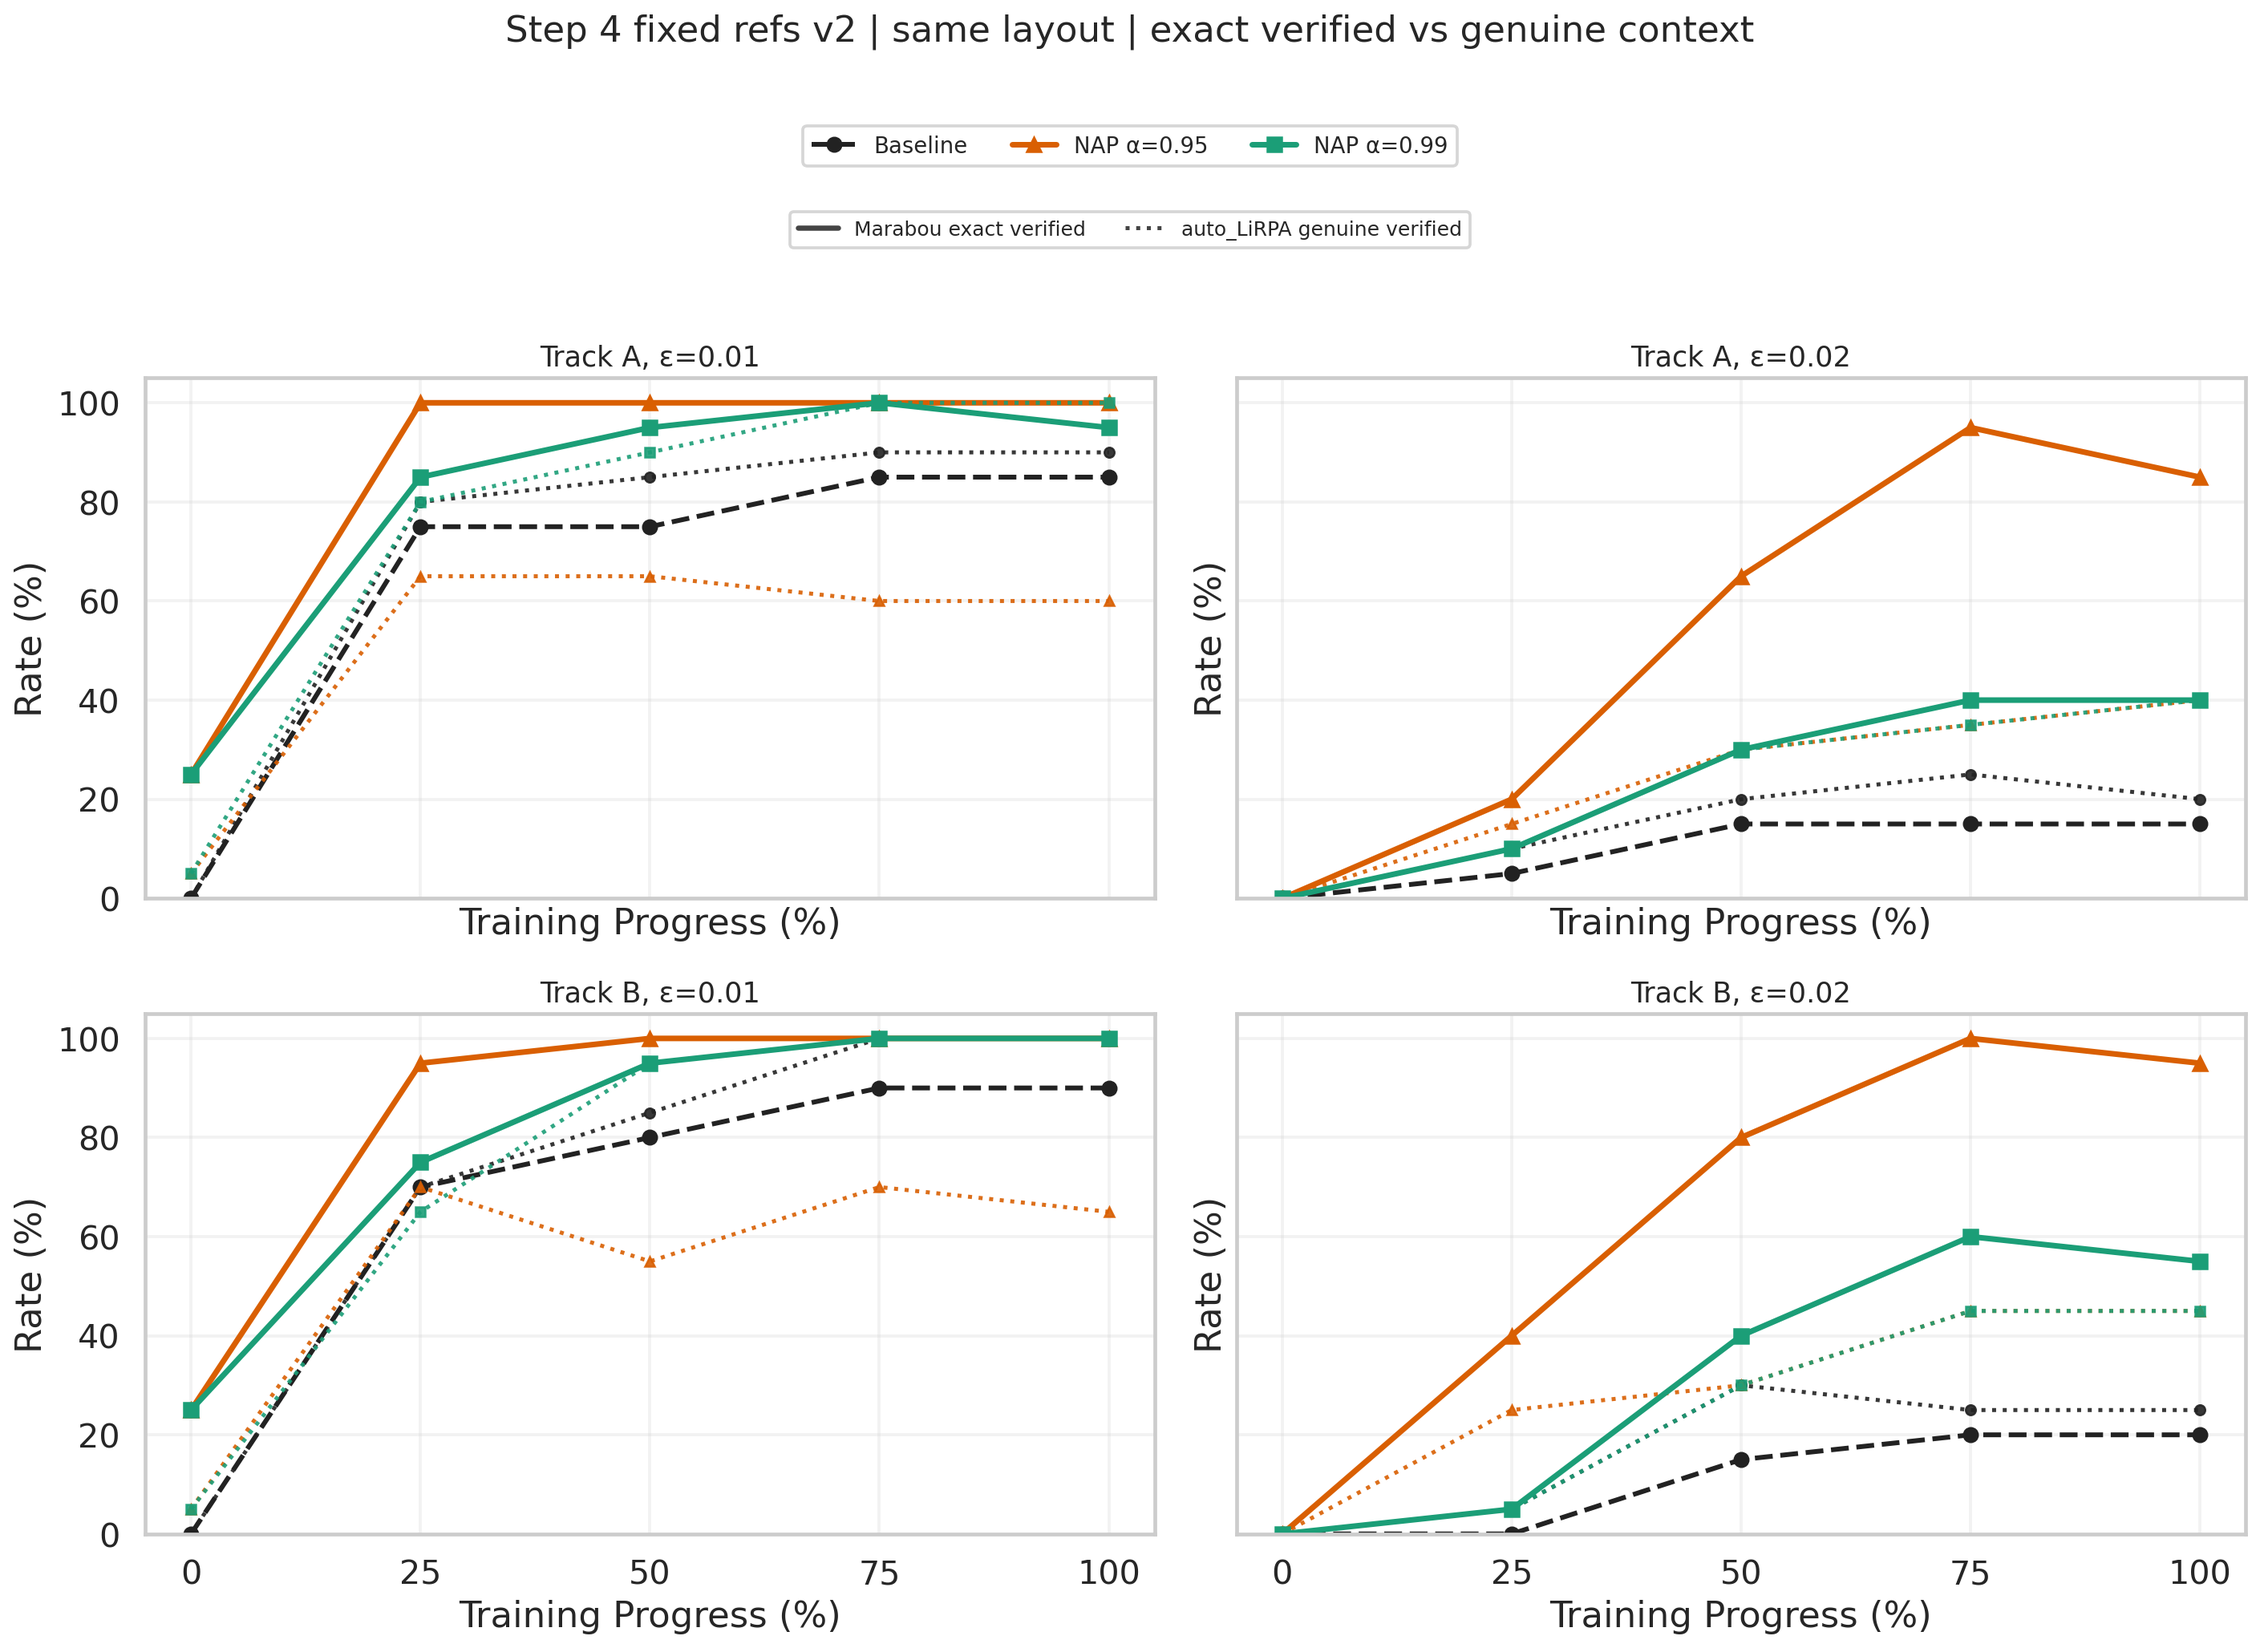
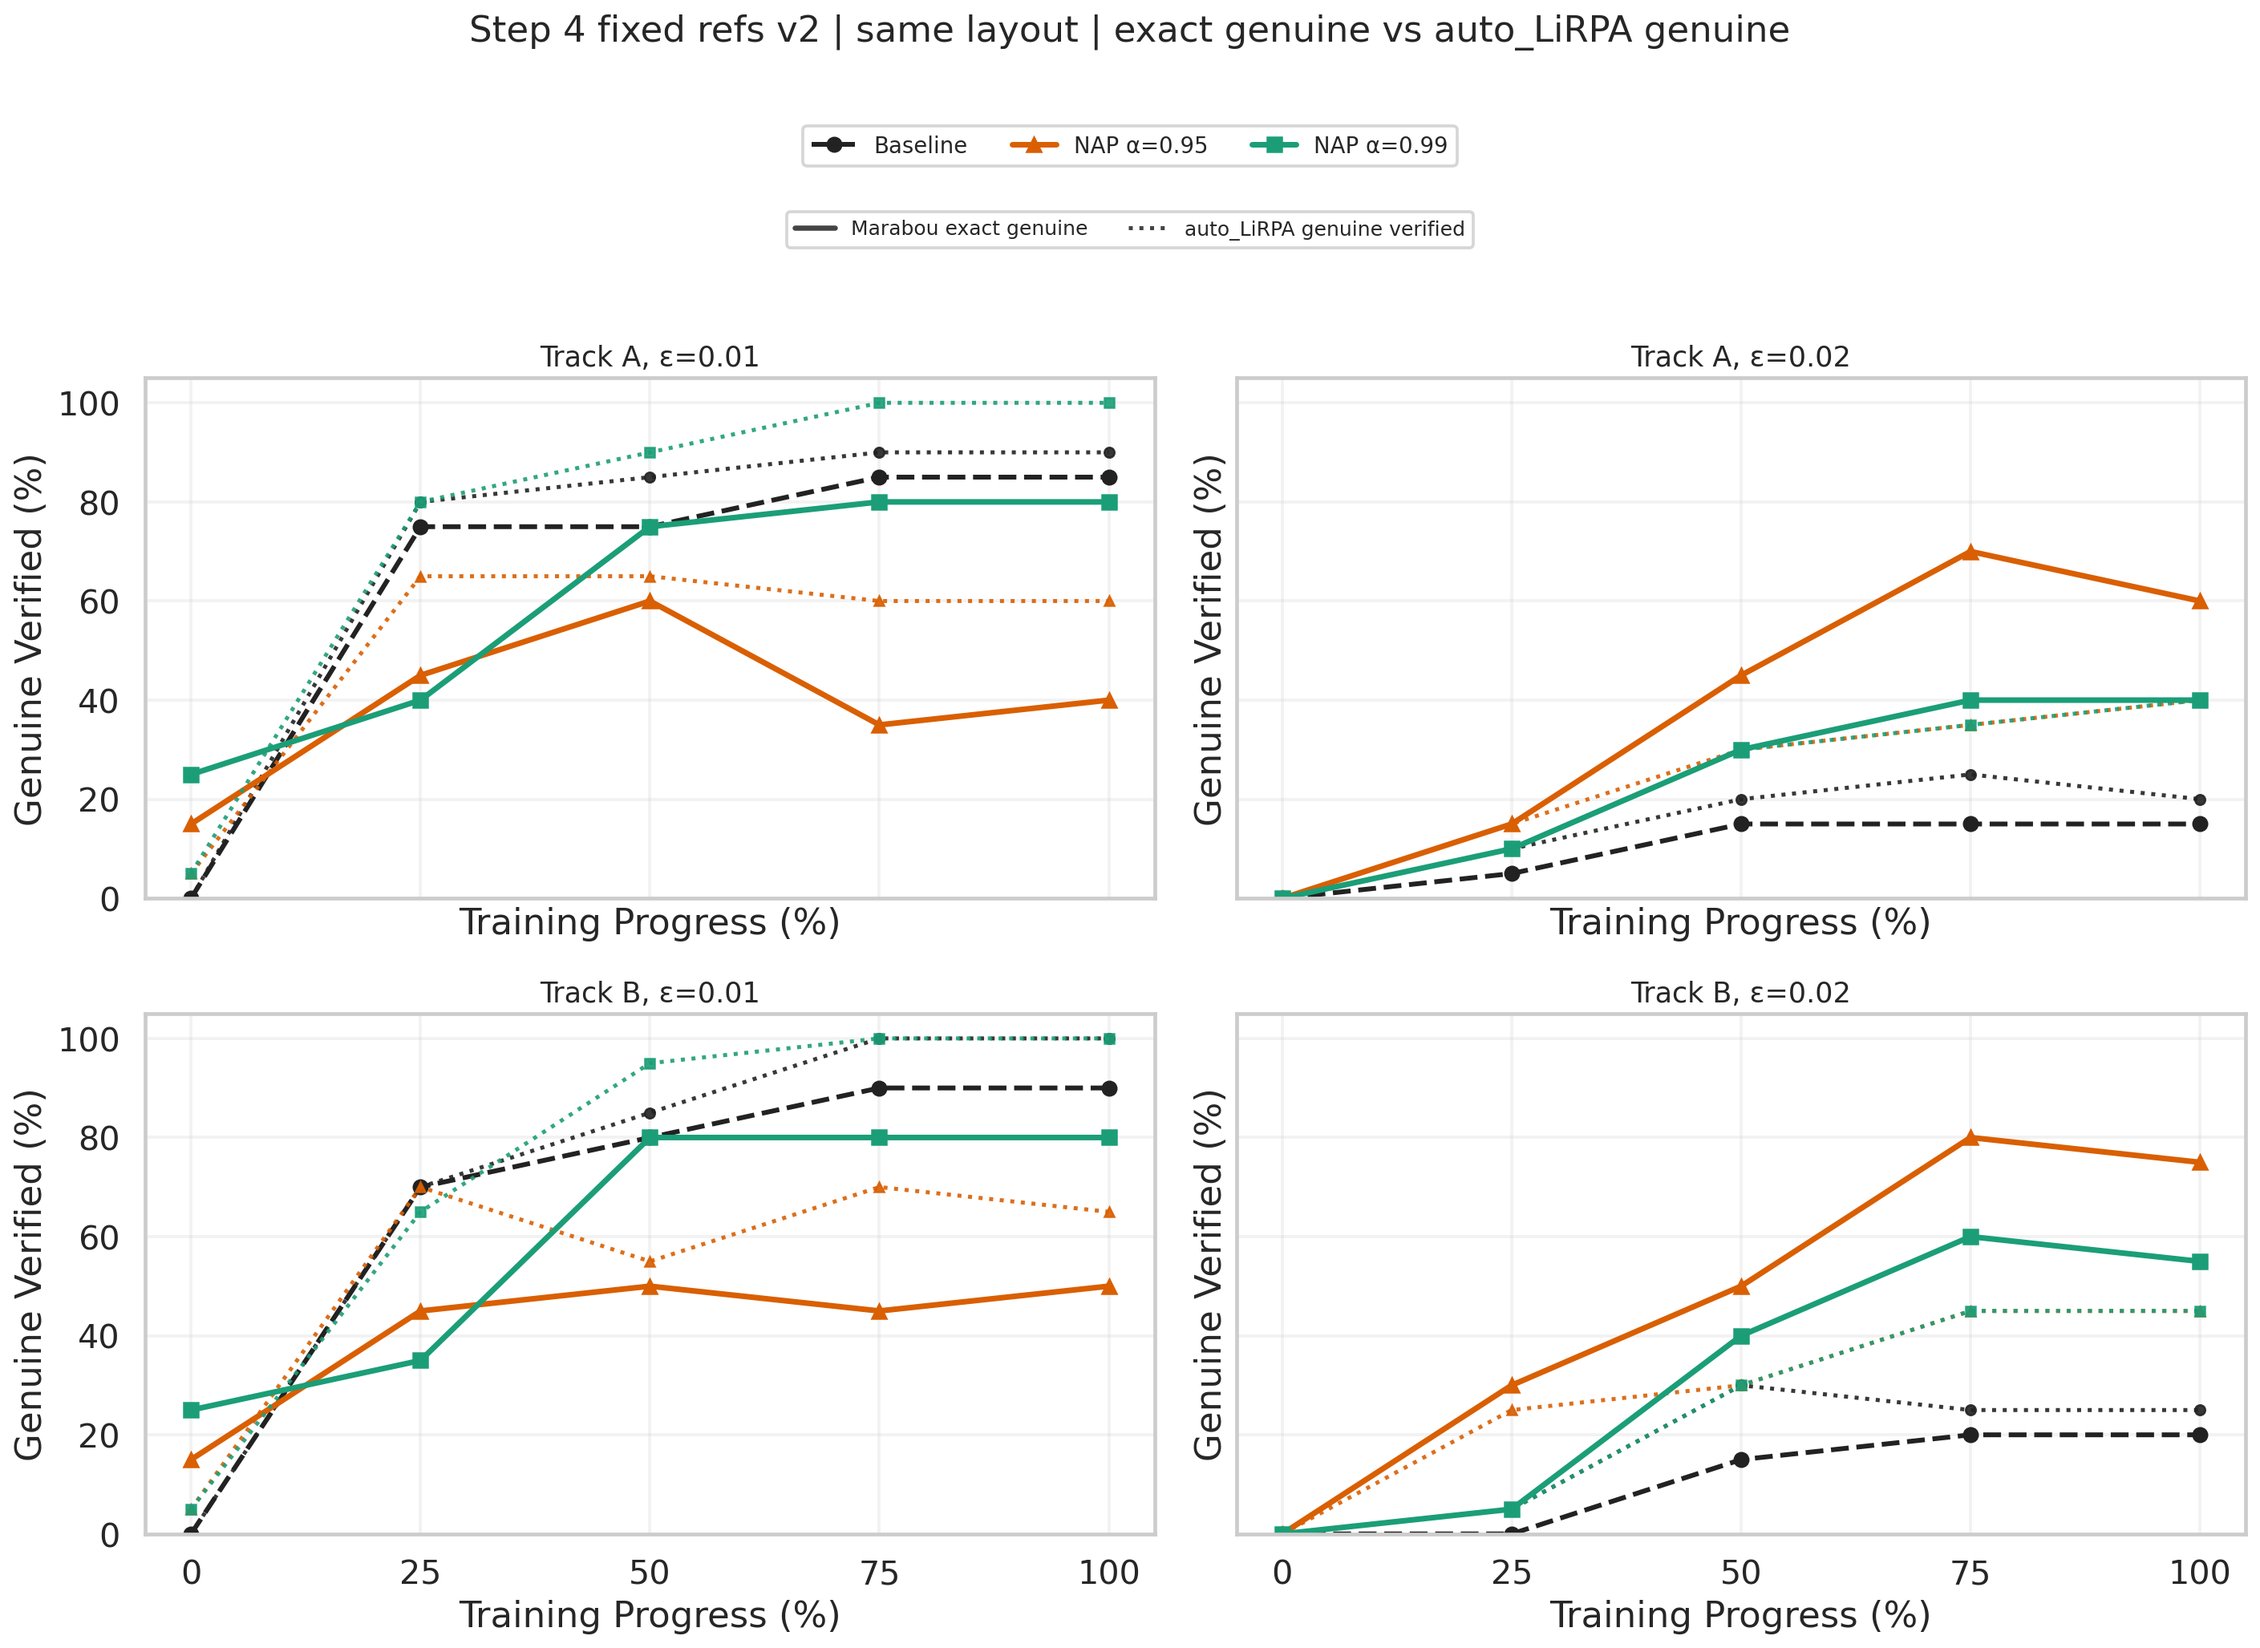
updates

diff --git a/random_to_welltrained/report.md b/random_to_welltrained/report.md
@@ -254,7 +254,7 @@ This section is very important in the story because:
 - but it is a methodological correction to Step 3;
 - it tells us that the Step 3 trend is unlikely to be only a sample-selection artifact.
 
-### 4.3 Step 4 Exact Verify: the Marabou Fixed-Ref Result Is Now Complete
+### 4.3 Step 4 Exact Verify: Marabou Total Verified on Fixed Refs
 
 ![Step4 Marabou Exact](story_step4_marabou_exact_verified.png)
 
@@ -285,21 +285,43 @@ If we focus only on the checkpoints that should actually be compared, i.e. `prog
 
 This materially upgrades the Step 4 story:
 
-- on fixed refs, the NAP-over-baseline advantage is now supported by exact verification;
+- on fixed refs, the NAP-over-baseline advantage is now supported by exact total verification;
 - the strongest advantage appears exactly where you cared most, namely `ε=0.02`;
 - this means the main Step 3 trend is not just an auto_LiRPA artifact, nor merely a reference-selection artifact.
 
-But the boundary must remain explicit:
+But total verified is not yet the final semantic answer.  
+For NAP, some `Y` results may still be vacuous.
 
-- this exact Step 4 positive-ref path currently reports only `verified`;
-- it does not split positive fixed-ref verification into `genuine` versus `vacuous` the way Section 4.2 does.
+### 4.4 Step 4 Exact Verify: Marabou Genuine Verified on Fixed Refs
 
-So the safest wording is:
+![Step4 Marabou Exact Genuine](story_step4_marabou_exact_genuine.png)
 
-> Step 4 exact now confirms the fixed-ref NAP advantage;  
-> the `genuine / vacuous` semantic decomposition is still mainly explained by `step4_unified_v2`.
+Data sources:
 
-### 4.4 On the Same Fixed Refs, View Exact Verified and Genuine Context in the Same Layout
+- `generated/step4_marabou_v2/results/coverage.csv`
+- `generated/step4_marabou_v2/results/positive_vacuous/`
+
+This now decomposes exact positive-ref results into:
+
+- `genuine`
+- `vacuous`
+- `semantic_unresolved`
+
+For `progress >= 25%`, the mean exact genuine rates are:
+
+| Method | `ε=0.01` | `ε=0.02` |
+| --- | ---: | ---: |
+| Baseline | 81.25% | 13.12% |
+| NAP `α=0.95` | 46.25% | 53.12% |
+| NAP `α=0.99` | 68.75% | 35.00% |
+
+This sharpens the Step 4 exact takeaway:
+
+- at `ε=0.02`, both alphas show clear exact genuine help;
+- at `ε=0.01`, the total gain of `α=0.95` is mostly not genuine;
+- at `ε=0.01`, `α=0.99` is still a conservative lower bound because some cases remain `semantic_unresolved`.
+
+### 4.5 On the Same Fixed Refs, Compare Exact Genuine and auto_LiRPA Genuine in the Same Layout
 
 ![Step4 Verifier Alignment](story_step4_v2_verifier_alignment.png)
 
@@ -308,21 +330,21 @@ Data sources:
 - `generated/step4_unified_v2/results/coverage.csv`
 - `generated/step4_marabou_v2/results/coverage.csv`
 
-This figure keeps the same visual layout as Sections 4.1 and 4.2, but changes the line semantics:
+This figure keeps the same visual layout as Sections 4.1 and 4.2, but now compares genuine against genuine:
 
-- solid lines of the same color denote `Marabou exact verified`
+- solid lines of the same color denote `Marabou exact genuine`
 - dotted lines of the same color denote `auto_LiRPA genuine verified`
 
 It is most useful for two questions:
 
-1. whether the fixed-ref exact verified trend broadly moves with the genuine trend;
-2. how much of the `α=0.95` versus `α=0.99` difference may be tied to the `vacuous` decomposition.
+1. whether the fixed-ref exact genuine trend broadly agrees with the auto_LiRPA genuine trend;
+2. where the exact semantic decomposition is noticeably more conservative than the incomplete trend.
 
 The main visual takeaways are:
 
-- under the baseline, Marabou and auto_LiRPA are very close;
-- under `α=0.99`, exact verified is also quite close to auto_LiRPA genuine;
-- under `α=0.95`, Marabou exact verified is substantially higher than auto_LiRPA genuine, which is exactly where `step4_unified_v2` is still needed to explain the vacuous structure.
+- under the baseline, the two genuine curves coincide;
+- under `α=0.99, ε=0.02`, they also agree closely;
+- under `α=0.95, ε=0.01`, exact genuine is clearly lower than auto_LiRPA genuine, showing that the exact vacuity decomposition is stricter here.
 
 ## 5. Act V: What Does NAP Do to Misclassified Samples?
 
